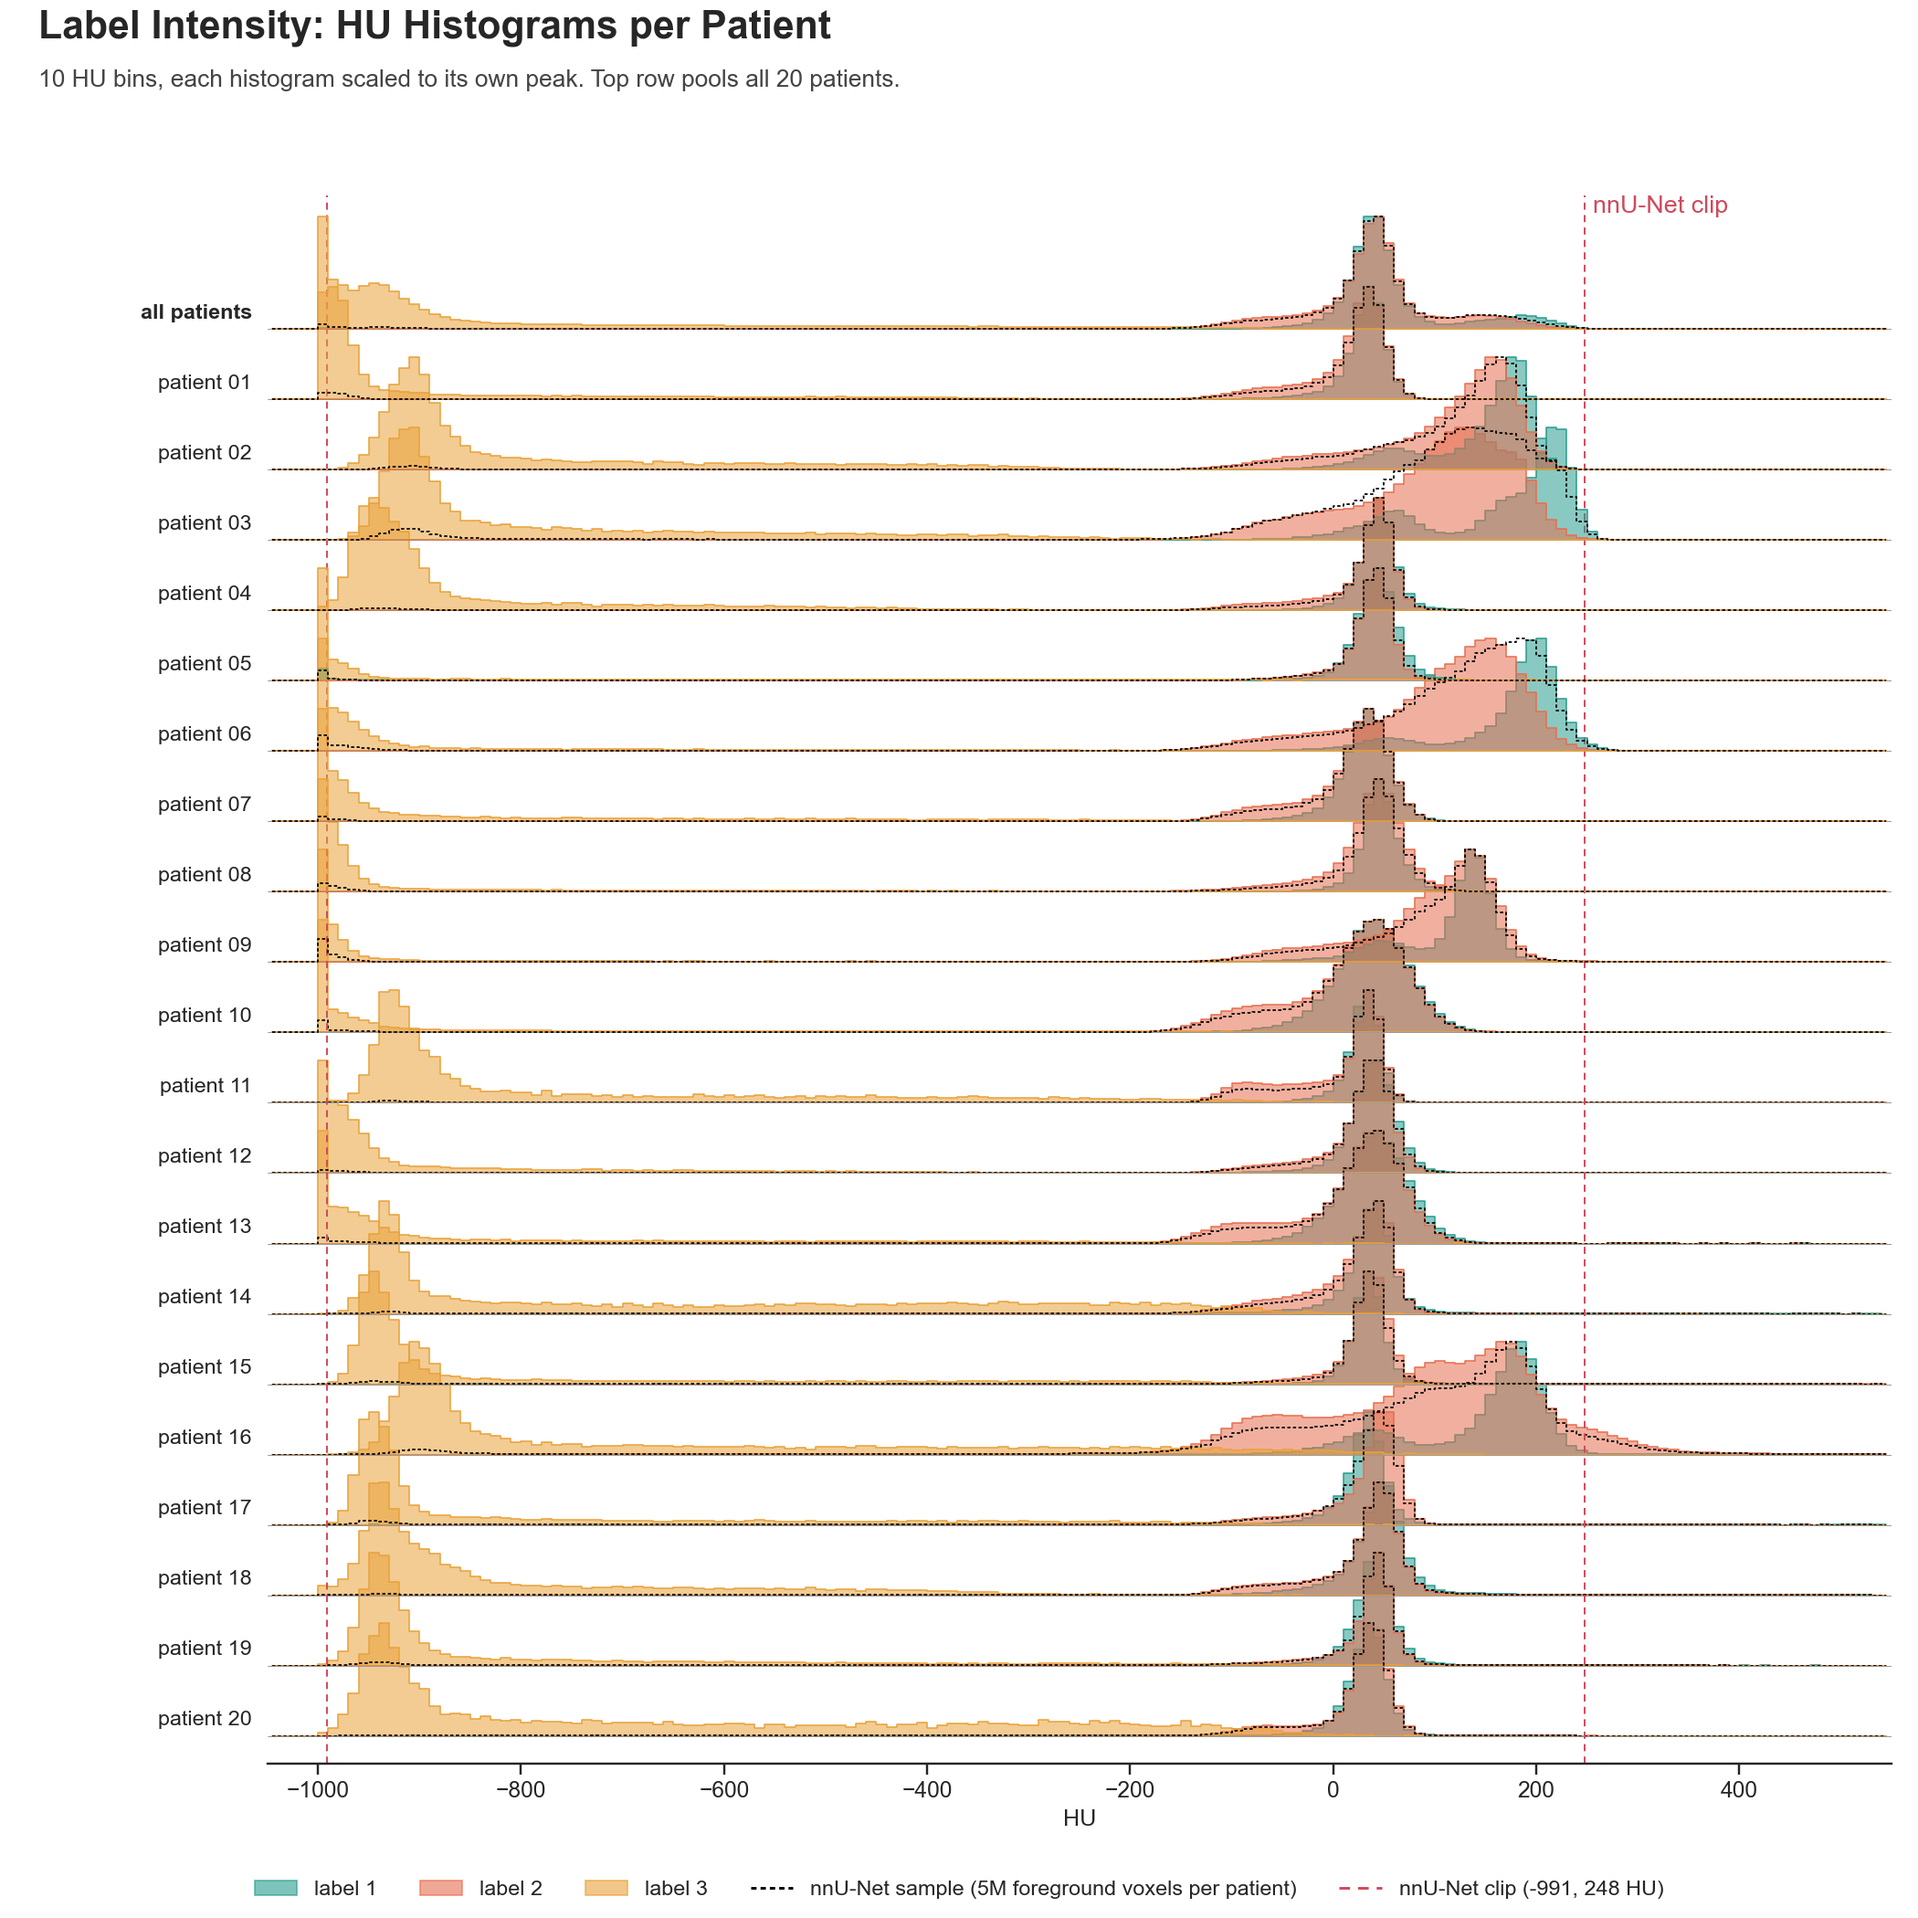
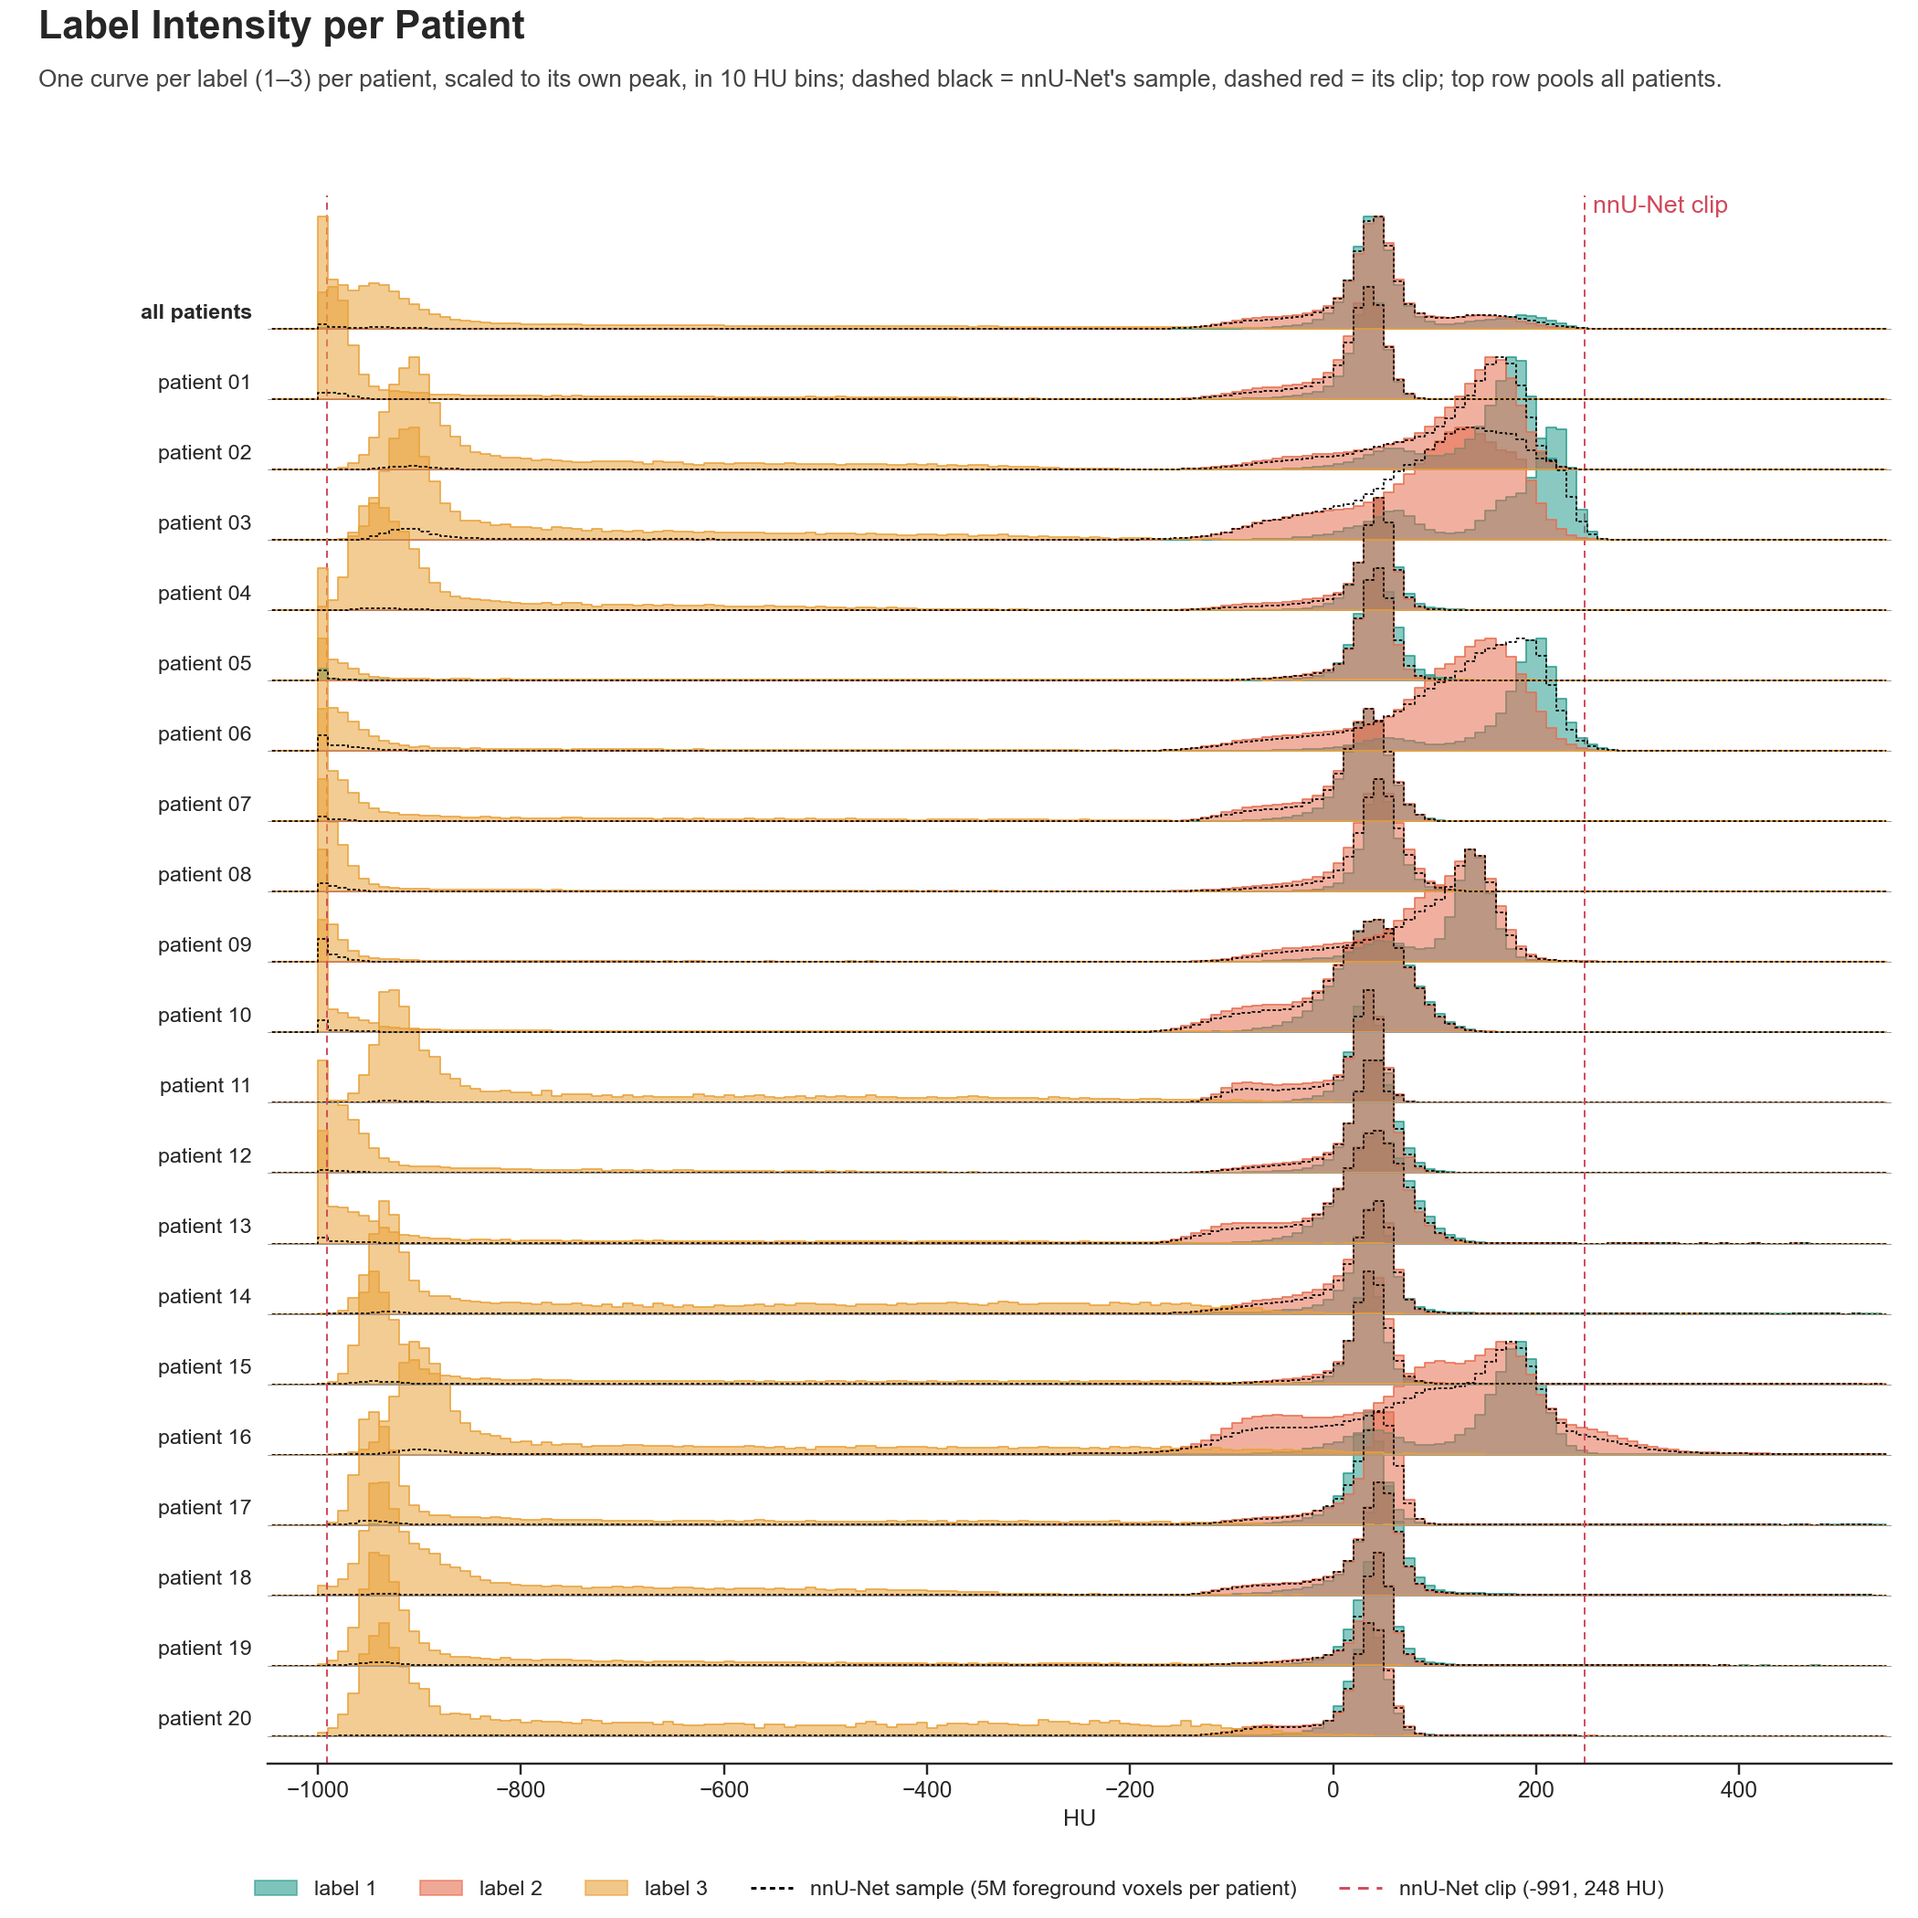
Clarify titles of label intensity and slice profile figures

diff --git a/dataset_analysis/profile_figures/f08_11_slices_and_change.py b/dataset_analysis/profile_figures/f08_11_slices_and_change.py
@@ -127,9 +127,8 @@ def _fig_bands(df: pd.DataFrame, labels: pd.DataFrame, out_dir: Path) -> None:
     header(
         fig,
         "Slices per Label and Slice-to-Slice Change",
-        f"All {labels['patient'].nunique()} patients. No label has an empty slice inside its range."
-        if labels["empty_slices_inside_range"].sum() == 0
-        else f"All {labels['patient'].nunique()} patients.",
+        "Median line with middle 50%/90% patient bands per label (1–3); position runs lowest (0%) to highest "
+        "(100%) slice; left: patients by slice count.",
         0.95,
     )
     fig.subplots_adjust(top=0.9, bottom=0.07, left=0.06, right=0.98)
@@ -175,8 +174,8 @@ def _fig_joint(df: pd.DataFrame, labels: pd.DataFrame, out_dir: Path) -> None:
     header(
         fig,
         "Slices per Label and Slice-to-Slice Change",
-        "Top: slice counts per patient. Bottom: every neighbouring slice pair; darker = more pairs. "
-        f"Changes beyond ±{CHANGE_LIMIT_PCT}% sit on the edge.",
+        "Top: patients by slice count, labels 1–3 stacked. Bottom: every neighbouring slice pair per label, "
+        f"all patients pooled; darker = more pairs; changes beyond ±{CHANGE_LIMIT_PCT}% sit on the edge.",
         0.95,
     )
     fig.subplots_adjust(top=0.9, bottom=0.07, left=0.06, right=0.98)

diff --git a/dataset_analysis/profile_figures/f06_07_label_size_intensity.py b/dataset_analysis/profile_figures/f06_07_label_size_intensity.py
@@ -158,8 +158,8 @@ def main():
     header(
         fig,
         "Label Size and Intensity",
-        "Top: every patient's label at the same physical scale, sorted left to right from smallest to largest volume "
-        f"(light to dark). Bottom: {BIN_HU} HU histograms as % of each group's voxels, one band per patient.",
+        "Top: each patient's label 1–3 shape at the same physical scale, sorted smallest (light) to largest "
+        f"(dark) by volume. Bottom: {BIN_HU} HU-wide bins as % of each group's voxels, one band per patient.",
         subtitle_y=0.95,
     )
     out = out_subdir(args.profile_dir, "06-07_label_size_intensity") / "label_size_intensity.png"

diff --git a/dataset_analysis/profile_figures/f05_label_intensity.py b/dataset_analysis/profile_figures/f05_label_intensity.py
@@ -107,8 +107,9 @@ def main():
     fig.legend(handles=handles, loc="lower center", ncol=5, frameon=False, fontsize=12)
     header(
         fig,
-        "Label Intensity: HU Histograms per Patient",
-        f"{BIN_HU} HU bins, each histogram scaled to its own peak. Top row pools all {len(patients)} patients.",
+        "Label Intensity per Patient",
+        f"One curve per label (1–3) per patient, scaled to its own peak, in {BIN_HU} HU bins; dashed black = "
+        "nnU-Net's sample, dashed red = its clip; top row pools all patients.",
         subtitle_y=0.955,
     )
     fig.tight_layout(rect=(0.06, 0.03, 1, 0.945))

diff --git a/dataset_analysis/profile_figures/f07_label_shapes_and_sizes.py b/dataset_analysis/profile_figures/f07_label_shapes_and_sizes.py
@@ -178,8 +178,8 @@ def draw_sizes(labels: pd.DataFrame, out_dir: Path) -> None:
     header(
         fig,
         "Label Size per Patient",
-        "Voxels, volume and share of the scan for labels 1–3; the row below the dashed line is the median of all "
-        "patients.",
+        "One dot per patient for each label (1–3), across voxels, volume and % of the scan; row below the "
+        "dashed line is the median across patients.",
         subtitle_y=0.935,
     )
     fig.tight_layout(rect=(0, 0.04, 1, 0.92))
